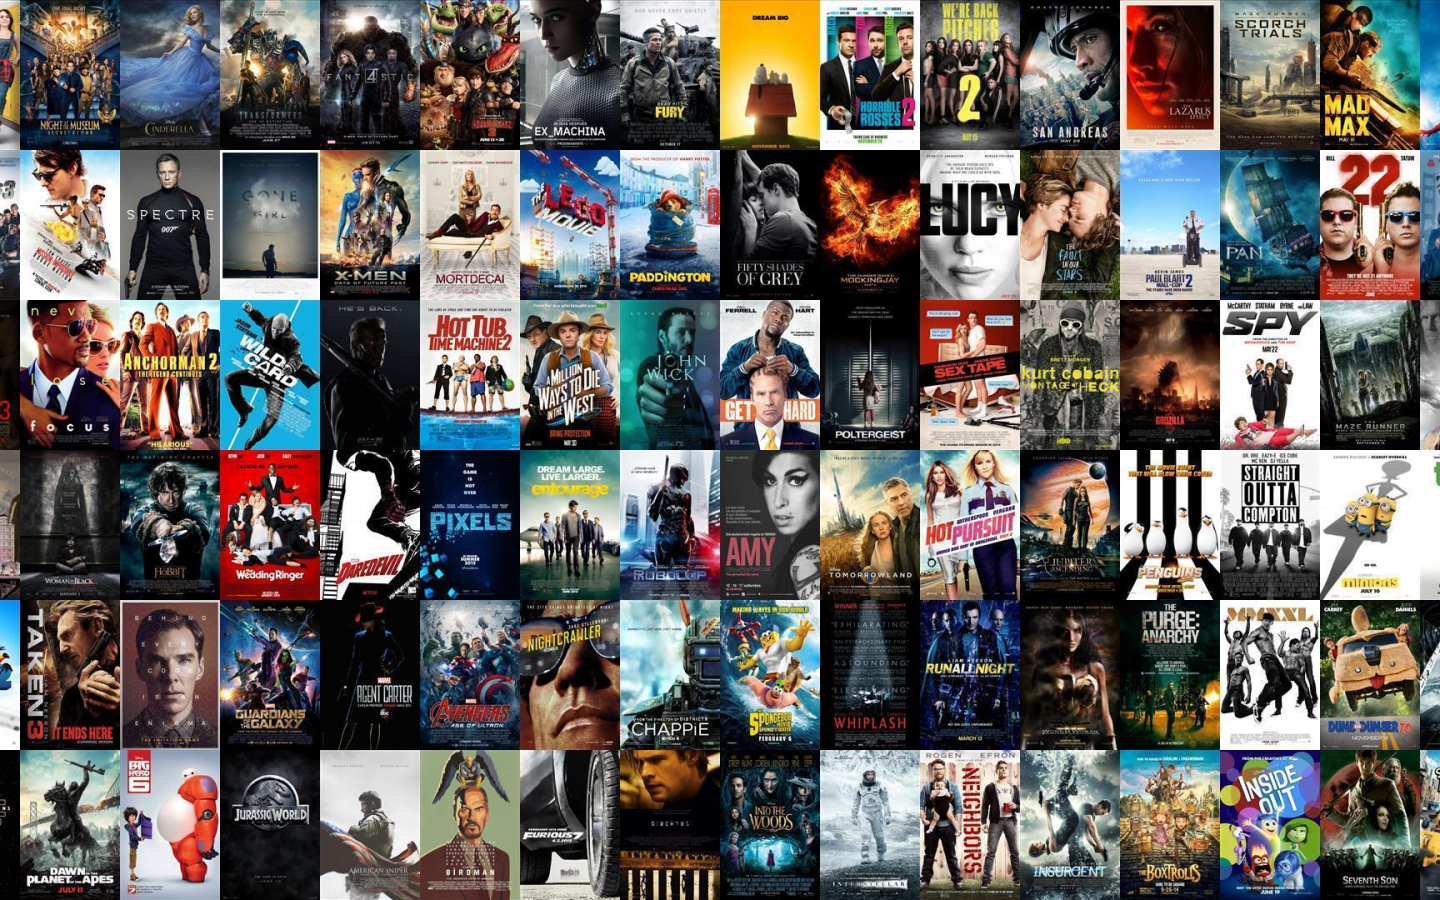
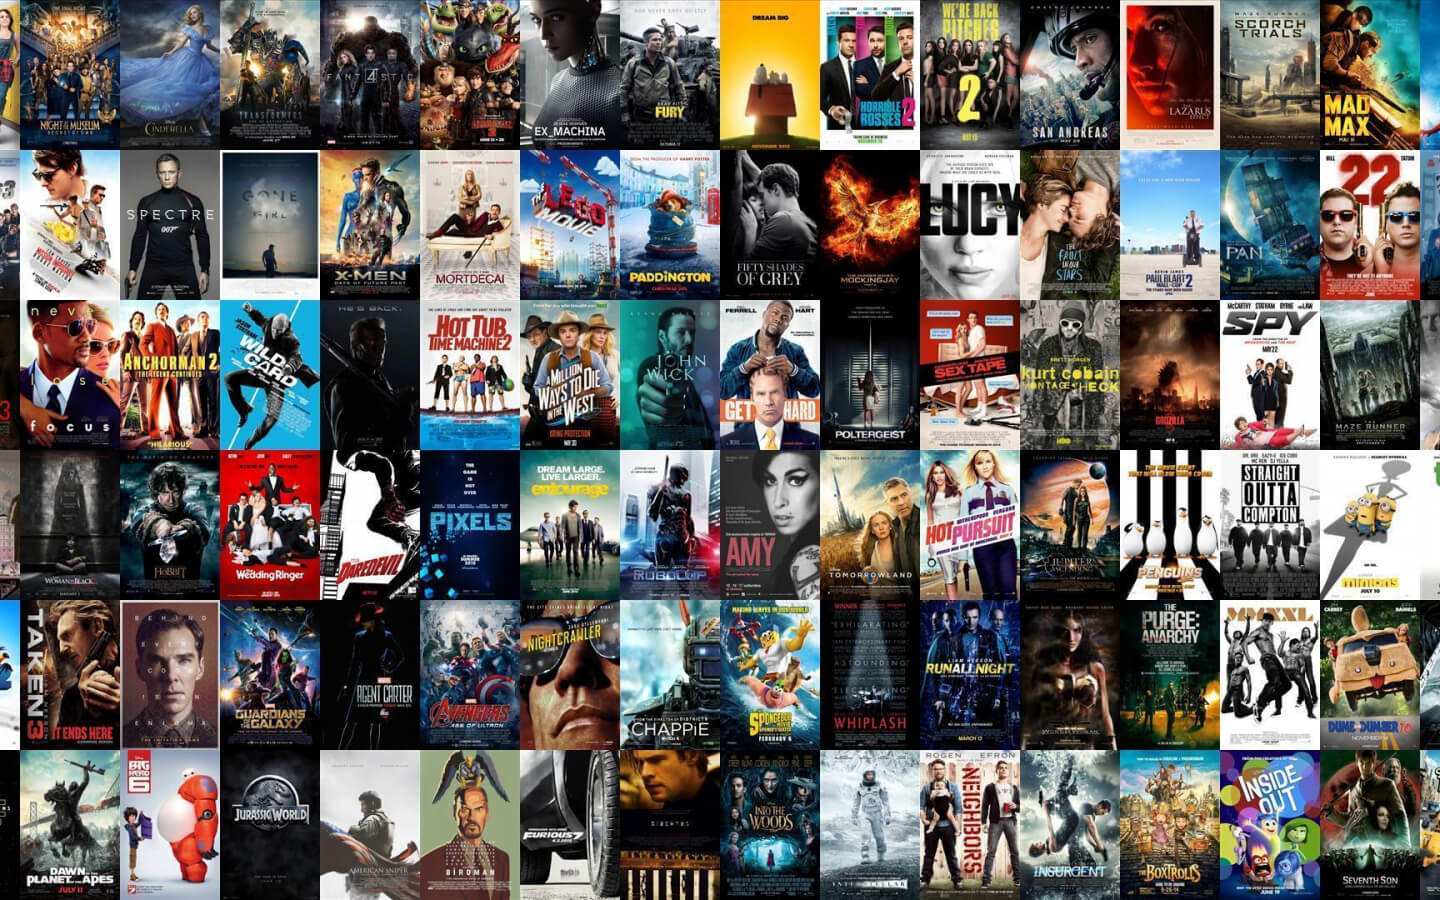
optimized home background image

diff --git a/src/style/_movieinfo.scss b/src/style/_movieinfo.scss
@@ -21,6 +21,7 @@
         color: #ffffff;
         padding: 20px 50px;
         line-height: 1.5rem;
+        
         @media screen and (max-width: 751px) {
             justify-content: center;
             align-items: center;
@@ -82,6 +83,7 @@
         .genre_title {
             margin-top: 18px;
         }
+        
     }
 
     .button__container {
@@ -186,45 +188,25 @@ iframe {
 
 .tv__seasons {
     // max-width: 900px;
+    width: 100%;
     .tv__seasons__slider {
+    width: 100%;
+    position: relative;
+    display: grid;
+    gap: 2rem;
+    -webkit-overflow-scrolling: smooth;
+
+    &::-webkit-scrollbar {
         width: 100%;
-        overflow-x: scroll;
-        white-space: nowrap;
-        float: left;
-        position: relative;
-        display: flex;
-        -webkit-overflow-scrolling: smooth;
-
-        &::-webkit-scrollbar {
-            width: 100%;
-            height: 7px;
-        }
-
-        /* Track */
-        &::-webkit-scrollbar-track {
-            background: #1a1818;
-        }
-
-        /* Handle */
-        &::-webkit-scrollbar-thumb {
-            background: #888;
-            border-radius: 10px;
-        }
-        &::-webkit-scrollbar-track {
-            box-shadow: inset 0 0 5px grey;
-            border-radius: 10px;
-        }
-
-        /* Handle on hover */
-        &::-webkit-scrollbar-thumb:hover {
-            background: #555;
-        }
-
+        height: 7px;
+      }
         .tv__slider__wrapper {
             display: flex;
-            width: 300%;
+            width: 200%;
+            height: auto;
             transition: 0.5s ease;
-            margin-bottom: 50px;
+            margin-bottom: 10px ;
+            margin-top: 10px;
             .tv__seasons__card {
                 max-width: 150px;
                 height: 200px;
@@ -278,4 +260,12 @@ iframe {
             }
         }
     }
+}
+.movie__info__wrapper{
+   display: flex;
+   flex-direction: column;
+   position: relative;
+   overflow: hidden;
+   width: 100%;
+   height: 100%;
 }

diff --git a/src/style/App.css b/src/style/App.css
@@ -775,19 +775,17 @@ body.ReactModal__Overlay {
   height: 100%;
 }
 
+.tv__seasons {
+  width: 100%;
+}
+
 .tv__seasons .tv__seasons__slider {
   width: 100%;
-  overflow-x: scroll;
-  white-space: nowrap;
-  float: left;
   position: relative;
-  display: -webkit-box;
-  display: -ms-flexbox;
-  display: flex;
+  display: -ms-grid;
+  display: grid;
+  gap: 2rem;
   -webkit-overflow-scrolling: smooth;
-  /* Track */
-  /* Handle */
-  /* Handle on hover */
 }
 
 .tv__seasons .tv__seasons__slider::-webkit-scrollbar {
@@ -795,33 +793,16 @@ body.ReactModal__Overlay {
   height: 7px;
 }
 
-.tv__seasons .tv__seasons__slider::-webkit-scrollbar-track {
-  background: #1a1818;
-}
-
-.tv__seasons .tv__seasons__slider::-webkit-scrollbar-thumb {
-  background: #888;
-  border-radius: 10px;
-}
-
-.tv__seasons .tv__seasons__slider::-webkit-scrollbar-track {
-  -webkit-box-shadow: inset 0 0 5px grey;
-          box-shadow: inset 0 0 5px grey;
-  border-radius: 10px;
-}
-
-.tv__seasons .tv__seasons__slider::-webkit-scrollbar-thumb:hover {
-  background: #555;
-}
-
 .tv__seasons .tv__seasons__slider .tv__slider__wrapper {
   display: -webkit-box;
   display: -ms-flexbox;
   display: flex;
-  width: 300%;
+  width: 200%;
+  height: auto;
   -webkit-transition: 0.5s ease;
   transition: 0.5s ease;
-  margin-bottom: 50px;
+  margin-bottom: 10px;
+  margin-top: 10px;
 }
 
 .tv__seasons .tv__seasons__slider .tv__slider__wrapper .tv__seasons__card {
@@ -882,6 +863,20 @@ body.ReactModal__Overlay {
   cursor: pointer;
   border-radius: 5px;
   text-align: center;
+}
+
+.movie__info__wrapper {
+  display: -webkit-box;
+  display: -ms-flexbox;
+  display: flex;
+  -webkit-box-orient: vertical;
+  -webkit-box-direction: normal;
+      -ms-flex-direction: column;
+          flex-direction: column;
+  position: relative;
+  overflow: hidden;
+  width: 100%;
+  height: 100%;
 }
 
 .search__section {

diff --git a/public/index.html b/public/index.html
@@ -13,7 +13,7 @@
     watch movies, watch free movies, voodu watch free movies, voodu movie streaming, free movies and tv shows,"/>
     <meta property="og:title" content="Voodu. | Millions of movies, TV shows and people to discover." />
     <meta property="og:type" content="website" />
-    <meta property="og:image" content="/vooduLogo.JPG" />
+    <meta property="og:image" content="/VooduBg.jpg" />
     <meta property="og:url" content="https://voodu.netlify.app" />
     <link rel="canonical" href="https://voodu.netlify.app" >
     <link href='https://unpkg.com/boxicons@2.0.7/css/boxicons.min.css' rel='stylesheet'>

diff --git a/src/components/TVshowInfo.js b/src/components/TVshowInfo.js
@@ -117,7 +117,7 @@ function TVshowInfo() {
                                 src={POSTERPATH_URL + poster_path}
                                 alt={name}
                             />
-                            <div>
+                            <div className="movie__info__wrapper">
                                 <h1>
                                     {name} ({CurrentYear})
                                 </h1>

diff --git a/src/components/MovieInfo.js b/src/components/MovieInfo.js
@@ -141,7 +141,7 @@ function MovieInfo() {
                                 src={POSTERPATH_URL + poster_path}
                                 alt={title}
                             />
-                            <div>
+                            <div >
                                 <h1>
                                     {title} ({CurrentYear})
                                 </h1>
